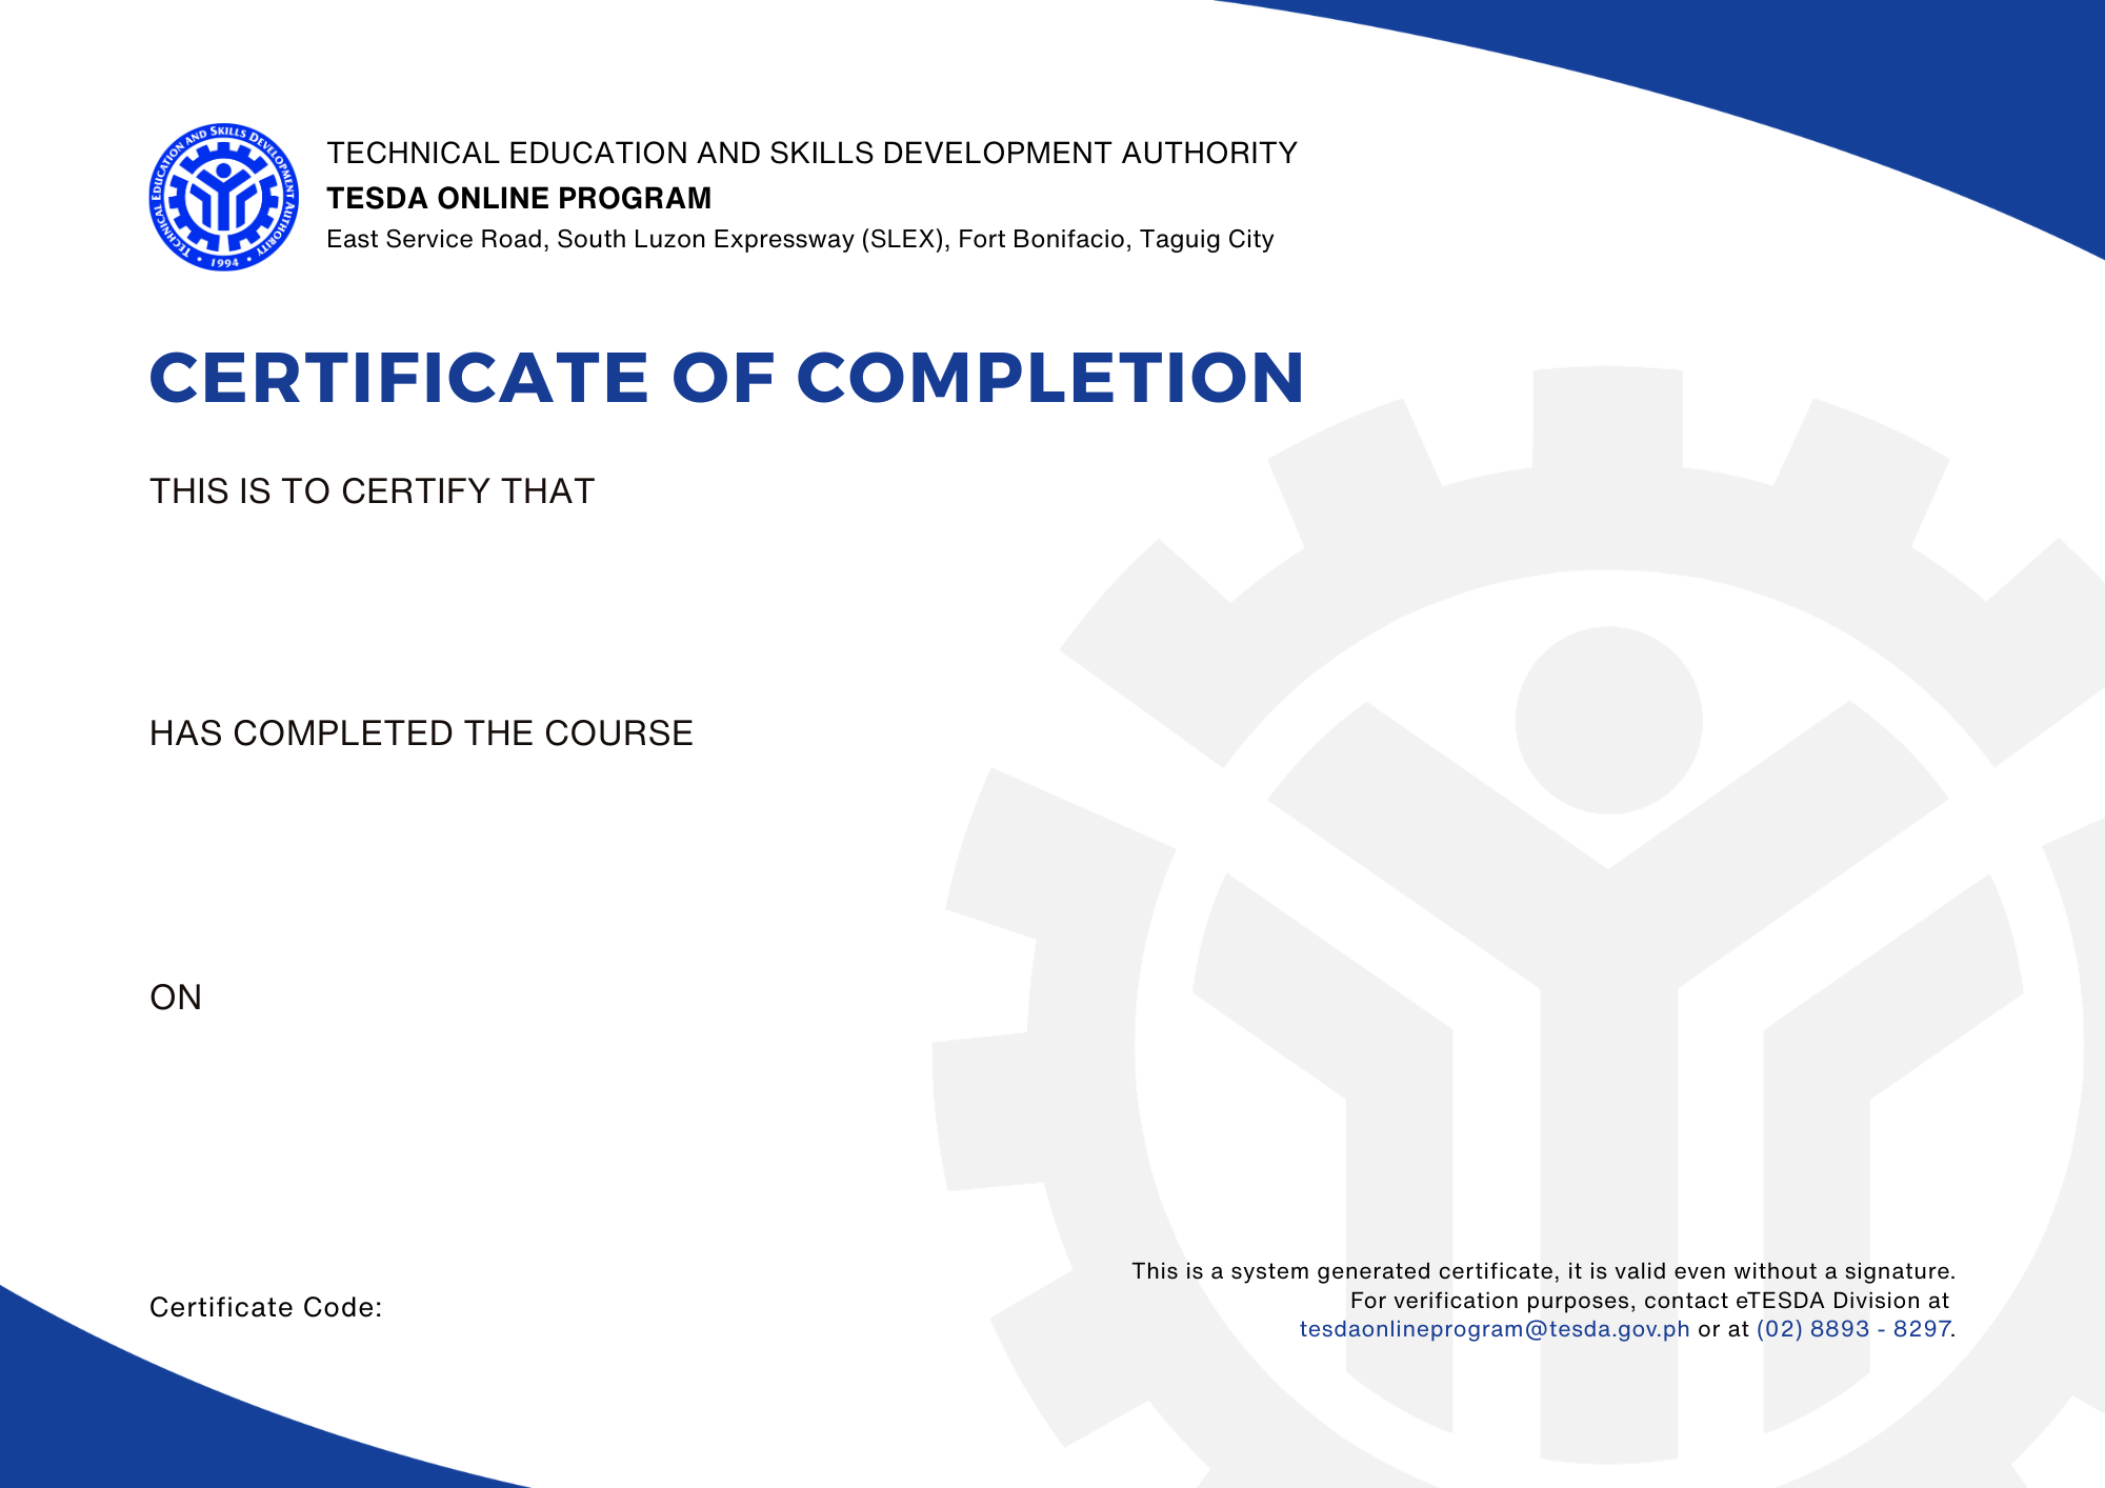
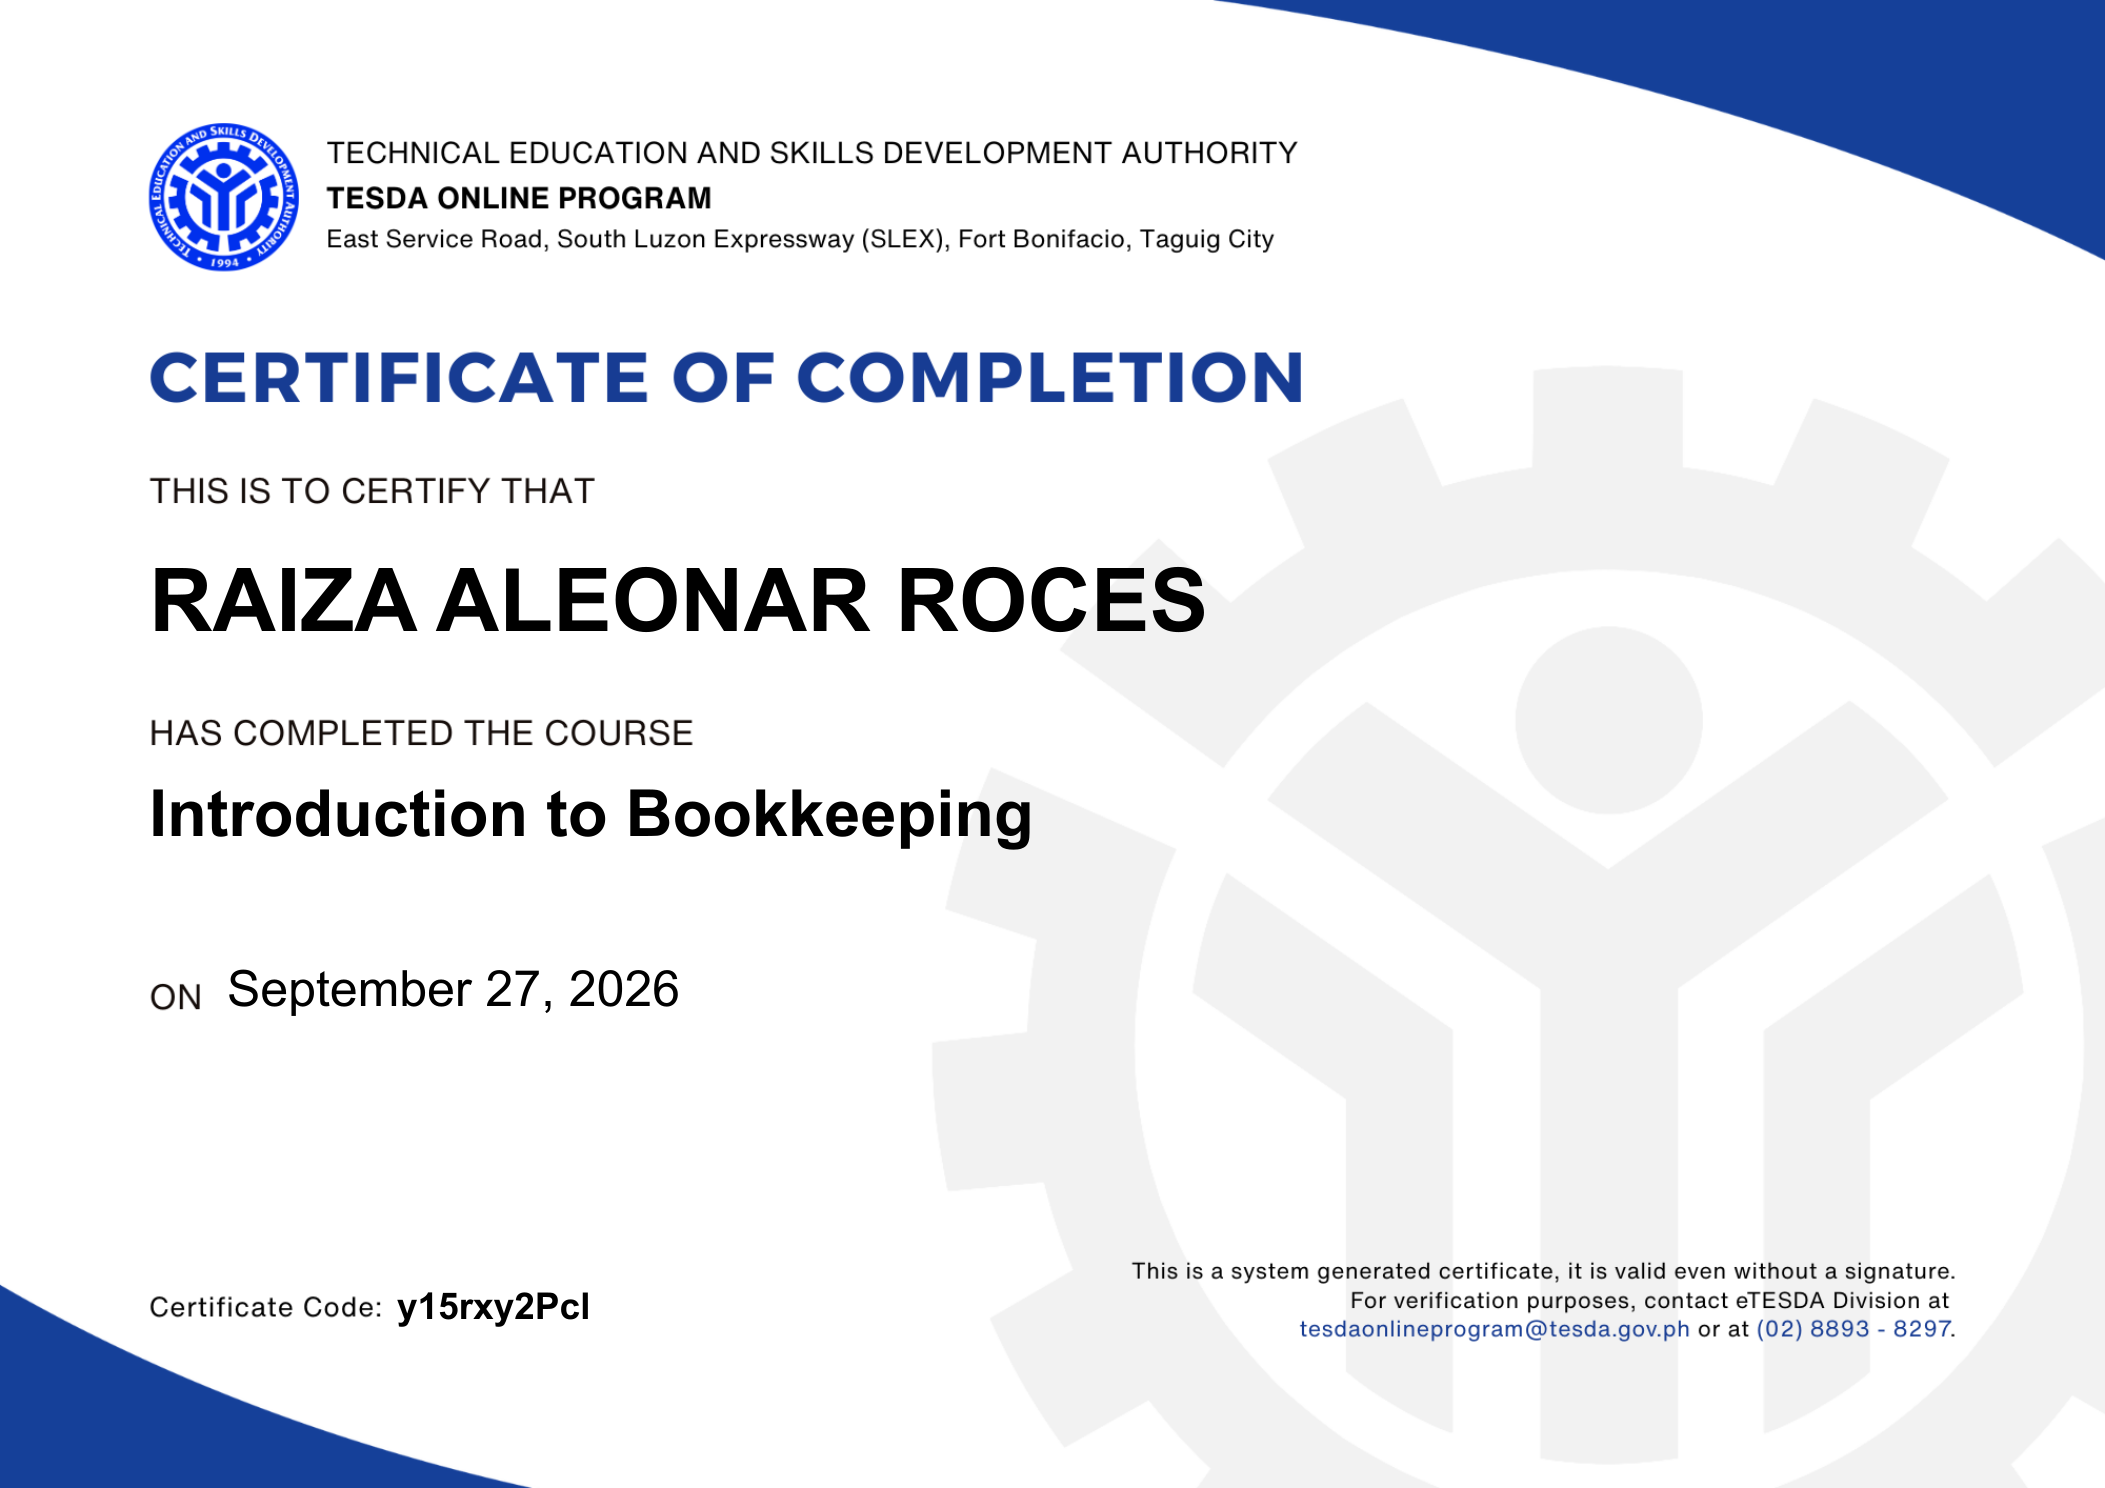
Fix Cisco Networking Basics PDF path typo and restore full text on Introduction to Bookkeeping preview

diff --git a/src/data/certificatesData.js b/src/data/certificatesData.js
@@ -228,7 +228,7 @@ export const certificatesData = [
       {
         subTitle: "Credential 1: Cisco Networking Academy Course Completion",
         previewImage: "assets/certificates/previews/cisco_networking.png",
-        documentUrl: "assets/certificates/CISCO/Networking Basics Cerificate.pdf",
+        documentUrl: "assets/certificates/CISCO/Networking Basics Certificate.pdf",
         type: "pdf",
         date: "September 28, 2026",
         issuer: "Lynn Bloomer, Director, Cisco Networking Academy"
